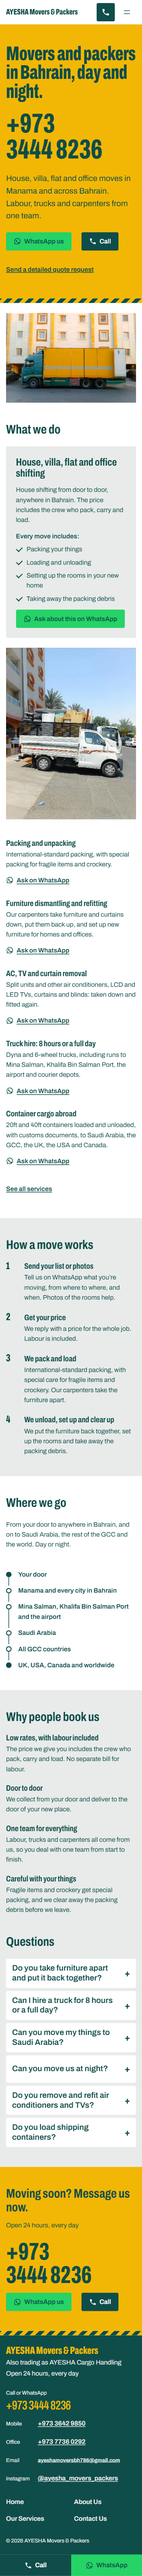
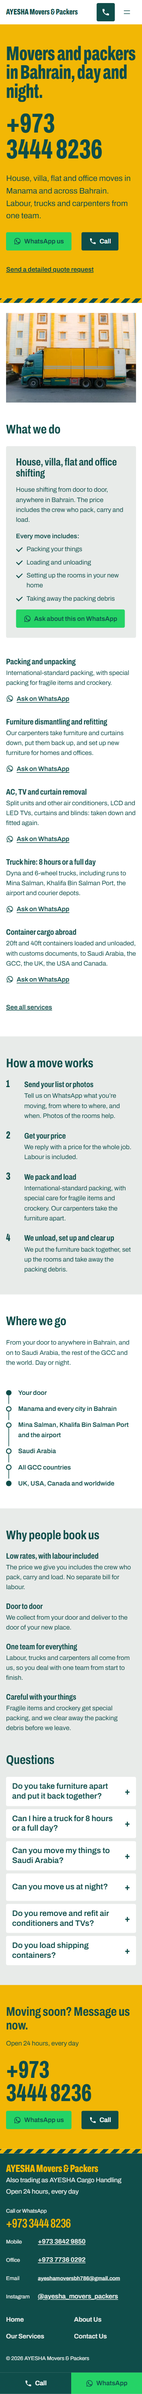
Phase 4: photo 12 on desktop only, lazy-loaded so phones never download it
- Theme: photo under the house-shifting card hidden below 960px (front end only).
- AYESHA Core: only the first content image skips lazy loading (was 3), so photo 12
  gets loading="lazy"; verified it is never requested at 375/768 and loads at 1280.
- Mobile/tablet full-page screenshots re-taken; editing guide and PROGRESS updated.

Changed region(s): [[0.0, 0.0, 1.0, 0.9979], [0.88, 0.3742, 0.9387, 0.4054]]

diff --git a/wp-content/themes/ayesha-movers/assets/css/theme.css b/wp-content/themes/ayesha-movers/assets/css/theme.css
@@ -810,9 +810,17 @@ a[href^="mailto:"] {
 	transform: rotate(45deg);
 }
 
-/* Photo 12 under the lead card, at its natural size (366 x 480). */
+/* Photo 12 under the lead card, at its natural size (366 x 480). Desktop only: on phones and
+   tablets it would only lengthen the page. It is lazy-loaded (AYESHA Core), so a hidden copy is
+   never downloaded. The editor still shows it. */
 .ayesha-services__photo {
 	margin-block: var(--wp--preset--spacing--40) 0;
+}
+
+@media (max-width: 959.98px) {
+	body:not(.editor-styles-wrapper) .ayesha-services__photo {
+		display: none;
+	}
 }
 
 .ayesha-services__photo img {

diff --git a/wp-content/plugins/ayesha-core/includes/media.php b/wp-content/plugins/ayesha-core/includes/media.php
@@ -1,7 +1,7 @@
 <?php
 /**
  * Images: resized copies are saved as WebP (smaller files), when the server can write WebP.
- * Originals stay as uploaded.
+ * Originals stay as uploaded. Only the first image on a page loads straight away.
  *
  * @package AyeshaCore
  */
@@ -23,4 +23,17 @@ function ayesha_core_webp_sub_sizes( $formats ) {
 	$formats['image/jpeg'] = 'image/webp';
 	$formats['image/png']  = 'image/webp';
 	return $formats;
+}
+
+add_filter( 'wp_omit_loading_attr_threshold', 'ayesha_core_eager_image_count' );
+
+/**
+ * Only the first content image (the Home hero photo) skips lazy loading; WordPress's default is 3.
+ * Every other image gets loading="lazy", so an image hidden on phones (e.g. the photo under the
+ * house-shifting card) is never downloaded there.
+ *
+ * @return int
+ */
+function ayesha_core_eager_image_count() {
+	return 1;
 }

diff --git a/PROGRESS.md b/PROGRESS.md
@@ -35,7 +35,7 @@ Main goal: get mobile visitors to WhatsApp or call in one tap, or to send a deta
 | 9 | yellow-box-truck-residential-building | OK | Home hero (560px WebP copy). No caption; alt describes only what's visible |
 | 10 | movers-carrying-white-sofa | **PLACEHOLDER ONLY** | Looks like a stock photo; replace with a real client photo before go-live (or confirm licence) |
 | 11 | white-pickup-truck-cargo-rails | **DO NOT USE** | Shows phone number 0524070463 (not an AYESHA number) |
-| 12 | pickup-loaded-with-household-goods | OK | Home, under the house-shifting card (366 x 480, natural size, WebP). Alt describes only what's visible |
+| 12 | pickup-loaded-with-household-goods | OK | Home, under the house-shifting card, from 960px only (366 x 480, natural size, WebP, lazy-loaded). Alt describes only what's visible |
 | 13 | crew-loading-wrapped-furniture | **DO NOT USE** | Appears AI-generated |
 | 14 | red-curtain-side-truck | OK | |
 | 15 | large-box-truck-with-driver | OK | |
@@ -103,6 +103,7 @@ In the Media Library, the tags are prefixed to the title (`[DO NOT USE]`, `[PLAC
 - 2026-10-01: Lighthouse 12.8.2 run with `npx` (user approved the download). The first run hit "Fatal process out of memory" (about 1 GB of RAM free); each report was then run on its own from the npx cache.
 - 2026-10-01: Phase 4 review fixes (user request): photo 12 under the lead service card (one Image block; on phones it sits between the card and the rows); "Where we go" changed to heading + intro on top and the route across the full width (auto-sized grid columns, one row for any number of stops); FAQ "Can I hire a truck for 8 hours or a full day?". Mobile gutters were already equal (16px both sides): the 2px right gutter in the earlier screenshots came from the desktop browser's 15px scrollbar, so mobile screenshots are now taken with real phone emulation (no scrollbar).
 - 2026-10-01: WebP regeneration makes WordPress use the WebP copy as each photo's main file (photos 9 and 12); the uploaded JPEG is kept and recorded as `original_image`.
+- 2026-10-01: Photo 12 is shown from 960px only (user request); hidden on phones and tablets. AYESHA Core now lets only the first content image skip lazy loading (`wp_omit_loading_attr_threshold` = 1, WordPress default 3), because WordPress had loaded photo 12 eagerly, and an eager image is downloaded even when hidden. The hero photo keeps `fetchpriority="high"`.
 - 2026-10-01: Outside this session, `phase-1-setup` was renamed to `main` and pushed to origin. `phase-1-setup` was recreated from `main` for the final Phase 1 commit, then fast-forward merged into `main`.
 
 ## Open questions for the client
@@ -212,7 +213,7 @@ Screenshots: `docs/screenshots/phase-4/` (`full-<width>.png` at 320, 375, 414, 7
 | 6 | Reviews hidden with the toggle off; visible with it on; off again | Off: not in the HTML; on: 3 placeholder cards | Off: 0 matches for `ayesha-reviews` / "Placeholder". On: 3 cards "Placeholder: replace with a real customer review" (`reviews-on-375.png`, `-1280.png`). Off again: 0 matches; settings identical to the backup | Pass |
 | 7 | Service WhatsApp links | Right number; URL-encoded text naming the service | 8 links in the page content, all `wa.me/97334448236`: hero + CTA band ("...a price for my move."), lead card ("...house, villa, flat or office shifting."), packing and unpacking, furniture dismantling and refitting, AC, TV or curtain removal and fitting, truck hire (Dyna or 6-wheel truck), international cargo (20ft or 40ft container). Encoded with `rawurlencode` (`%20`, `%26` for &, `%27` for ', `%28`/`%29` for brackets); each decodes back to the exact message | Pass |
 | 8 | Anchors to Our Services / Contact Us | Each goes to the right place | Links: `/our-services/#house-shifting`, `#packing`, `#furniture`, `#appliances`, `#trucks`, `#cargo`; "See all services" to `/our-services/`; "Send a detailed quote request" to `/contact-us/#quote`. Both pages return 200; **the target ids don't exist yet** (Our Services is built in Phase 5, the quote form in Phase 6) | Pass (anchors pending Phases 5/6) |
-| 9 | Responsive full-page screenshots | 5 widths, no h-scroll | Re-taken after the review fixes: `full-320/375/414/768/1280/1920.png`; page heights 7232 / 6761 / 6638 / 6369 / 4293 / 4293 px; no horizontal scroll at any width | Pass |
+| 9 | Responsive full-page screenshots | 5 widths, no h-scroll | Re-taken after the review fixes and after hiding photo 12 below 960px: `full-320/375/414/768/1280/1920.png`; page heights 6829 / 6285 / 6131 / 5862 / 4293 / 4293 px; no horizontal scroll at any width | Pass |
 | 10 | Heading order | One H1, no skipped levels | Outline 1 2 3 3 3 3 3 3 2 2 2 3 3 3 3 2 2: one H1, no skips | Pass |
 | 11 | Images have alt text | All | 1 image (photo 9, 560px WebP, `fetchpriority=high`, width/height set), alt "Large yellow box truck with a green cab parked outside a residential apartment building" (no ownership claim). Photos 10, 11, 13 not used | Pass |
 | 12 | SEO title and meta description (design plan 7) | Exact text | `<title>` "Movers and Packers in Bahrain, 24 Hours &#124; AYESHA Movers" (55 chars); description exactly as the plan (154 chars) | Pass |
@@ -225,8 +226,9 @@ Screenshots: `docs/screenshots/phase-4/` (`full-<width>.png` at 320, 375, 414, 7
 | 19 | Mobile hero order (design plan 3.1) | Yellow text panel, strip, then photo on white | As expected at 320/375/768; desktop: photo on the yellow, bottom edge on the strip | Pass |
 | 20 | Desktop hero row | Quote link beside the buttons | After a fix: link and buttons share the same vertical middle (582.5 px) | Pass (after fix) |
 | 21 | Review fix 1: mobile gutters with real phone emulation (no scrollbar, touch, iPhone user agent) at 320 / 375 / 414 | Equal 16px gutter on both sides; nothing touches an edge | Checked every heading, paragraph, list item, button, card, FAQ box, image and column in the page content. Narrowest gutter left / right: 320: 16.0 / 16.0; 375: 16.0 / 16.0; 414: 16.3 / 16.3 (the theme's fluid side padding starts to grow above 375). No element touches either edge (the hero's yellow background is full-bleed by design; its content is inset 16px). Cause of the reported 2px: the earlier 375px screenshots were taken in a desktop browser whose 15px scrollbar takes space from the right. Measured against `visualViewport.width`, because the emulator reports 375.2 / 414.4 px even for a blank page | Pass (no CSS change needed; screenshots re-taken) |
-| 22 | Review fix 2: photo 12 under the lead card | Desktop: fills the gap on the left; phones: shown once, order unchanged | 1280: photo at 366 x 480 (natural size, WebP), alt "Small white pickup truck loaded with boxes and furniture outside a building"; the left column's content now ends about 30 px below the last row's link (before: the card ended about 480 px above it). 375: one `wp-image-12` on the page, between the lead card and the rows | Pass |
+| 22 | Review fix 2: photo 12 under the lead card | Desktop: fills the gap on the left (on phones: see test 27) | 1280: photo at 366 x 480 (natural size, WebP), alt "Small white pickup truck loaded with boxes and furniture outside a building"; the left column's content now ends about 30 px below the last row's link (before: the card ended about 480 px above it). 375: one `wp-image-12` on the page, between the lead card and the rows | Pass |
 | 23 | Review fix 3: Where we go, route across the full width | Each label at most 2 lines at 1280 | Heading and intro on top, route below across 1200px. Lines per label at 1280 and 1920: Your door 1, Manama and every city in Bahrain 2, Mina Salman, Khalifa Bin Salman Port and the airport 2 (was 6), Saudi Arabia 1, All GCC countries 1, UK, USA, Canada and worldwide 1. (At 960px the long label takes 3 lines) | Pass |
 | 24 | Review fix 4: FAQ truck question | Question and answer match | "Can I hire a truck for 8 hours or a full day?" / "Yes. You can hire a Dyna or a 6-wheel truck for 8 hours or for a full day. We also do runs to Mina Salman, Khalifa Bin Salman Port, the airport and courier depots such as DHL, Aramex and GLS." | Pass |
 | 25 | Hero number tests re-run after the CSS changes | Same results as tests 1-2 | Real and long number at 320 / 375 / 768 / 1280 / 1920: identical font sizes, line counts and widths to tests 1 and 2; no clipping, no h-scroll, whole number tappable. Business Info restored and identical to the backup | Pass |
 | 26 | Patterns still valid block markup after the fixes | Parse and serialize back unchanged | what-we-do, where-we-go, questions, why-and-questions: round-trip identical (the lead card's `&` now stored as `\u0026`, as the editor saves it) | Pass |
+| 27 | Photo 12 hidden below 960px and not downloaded there | Phones/tablets: hidden, never requested; desktop: shown | Page scrolled from top to bottom while recording image requests. 375 (phone emulation): figure `display: none`, photo 12 never requested; the only image request was photo 9. 768 (tablet emulation): same. 1280: shown, requested and loaded. HTML: hero photo `fetchpriority="high"` without `loading`, photo 12 `loading="lazy"` (before the fix WordPress gave it no `loading` attribute, so it was eager). `full-375.png` re-taken: page 476px shorter. `docs/content/home.html` re-exported: unchanged (CSS and plugin change only, no content change) | Pass |

diff --git a/docs/editing-guide.md b/docs/editing-guide.md
@@ -125,7 +125,7 @@ Two sections are **synced patterns**: the yellow **CTA band** ("Moving soon? Mes
 
 ### Services: the photo under the house-shifting card
 
-The photo under the large grey "House, villa, flat and office shifting" card (the pickup loaded with boxes) is a normal Image block shown at its real size. Click it to replace it (**Replace** in the toolbar) or delete it. Keep the alt text a plain description of what is in the photo.
+The photo under the large grey "House, villa, flat and office shifting" card (the pickup loaded with boxes) is a normal Image block shown at its real size. It appears on computers only; phones and tablets don't show it (or download it), to keep the page short. Click it to replace it (**Replace** in the toolbar) or delete it. Keep the alt text a plain description of what is in the photo.
 
 ### Services: "Ask on WhatsApp" links
 
